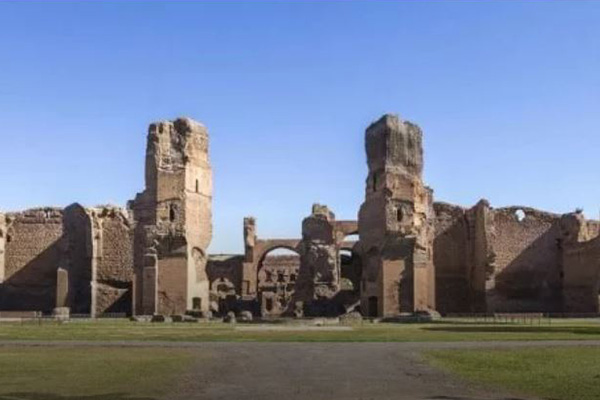
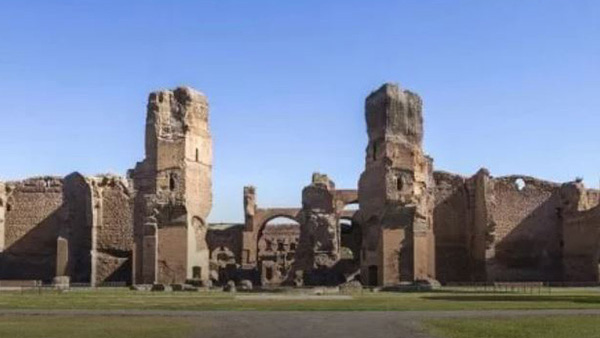
next

diff --git a/Template/alexis/src/containers/home/carousel-monuments/index.jsx b/Template/alexis/src/containers/home/carousel-monuments/index.jsx
@@ -24,7 +24,7 @@ function CarouselMonumentsContainer() {
                                             </Link>
                                         </form>
                                     </div>
-                                    <Image rounded className="col carousel-image m-4" alt={data.alt} src={process.env.PUBLIC_URL + data.path}></Image>
+                                    <Image rounded className="col m-4 image-home-carousel-360" alt={data.alt} src={process.env.PUBLIC_URL + data.path}></Image>
                                 </div>
                             </Carousel.Item>
                         )

diff --git a/Template/alexis/src/assets/css/style.css b/Template/alexis/src/assets/css/style.css
@@ -1525,8 +1525,18 @@ margin-bottom: 15px;
         margin-bottom: 3px !important;
     }
 
+    .image-home-carousel-360{
+        height: max-content !important;
+        width: 30% !important;
+        margin: 0rem !important;
+    }
 
 
+}
+
+.image-home-carousel-360{
+    width: auto;
+    height: fit-content;
 }
 
 .number-article-map{
